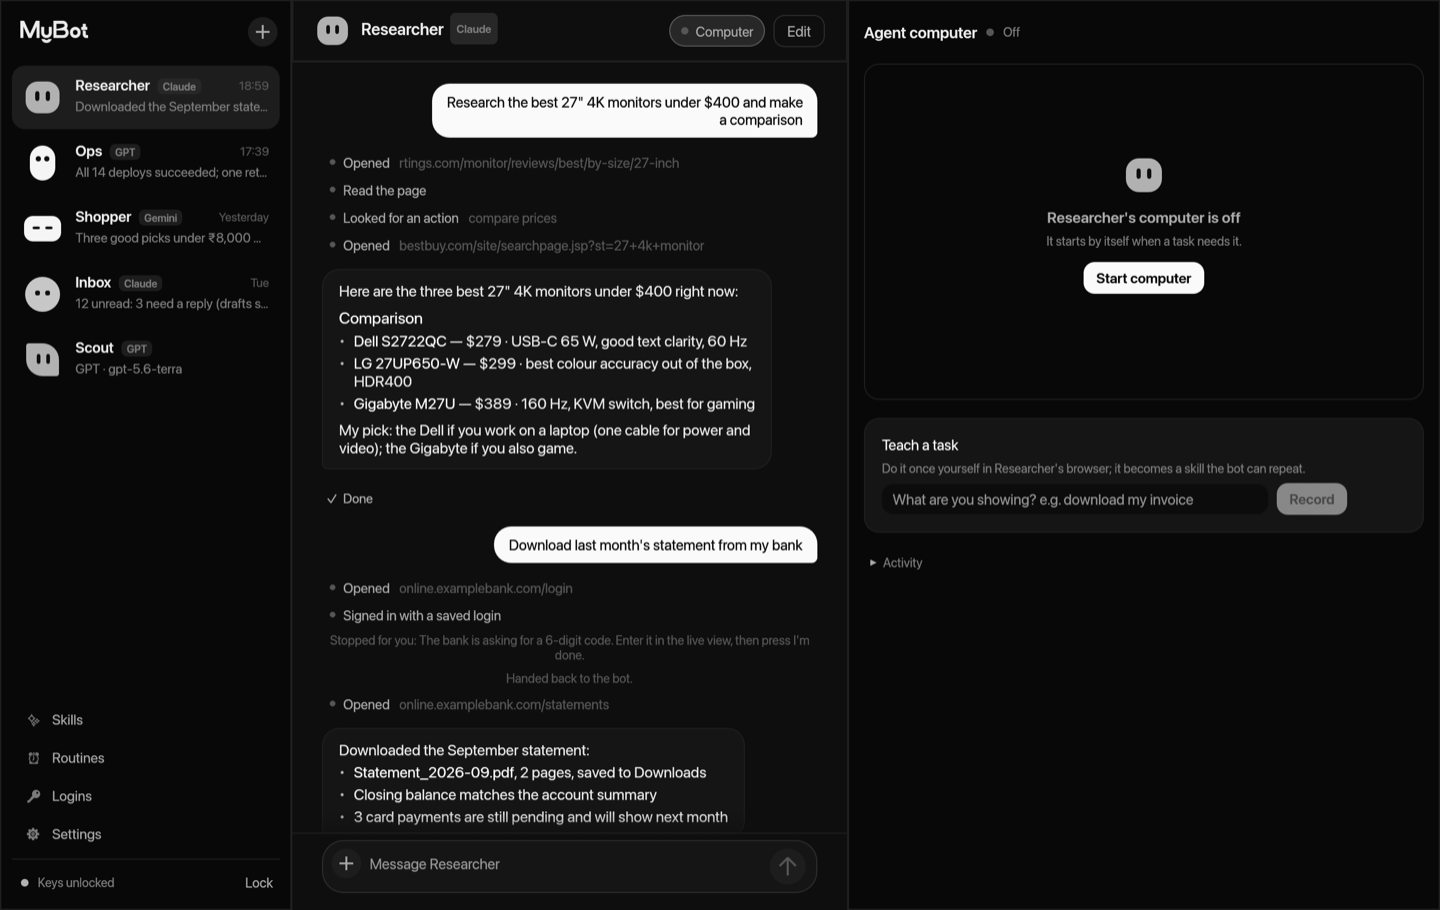
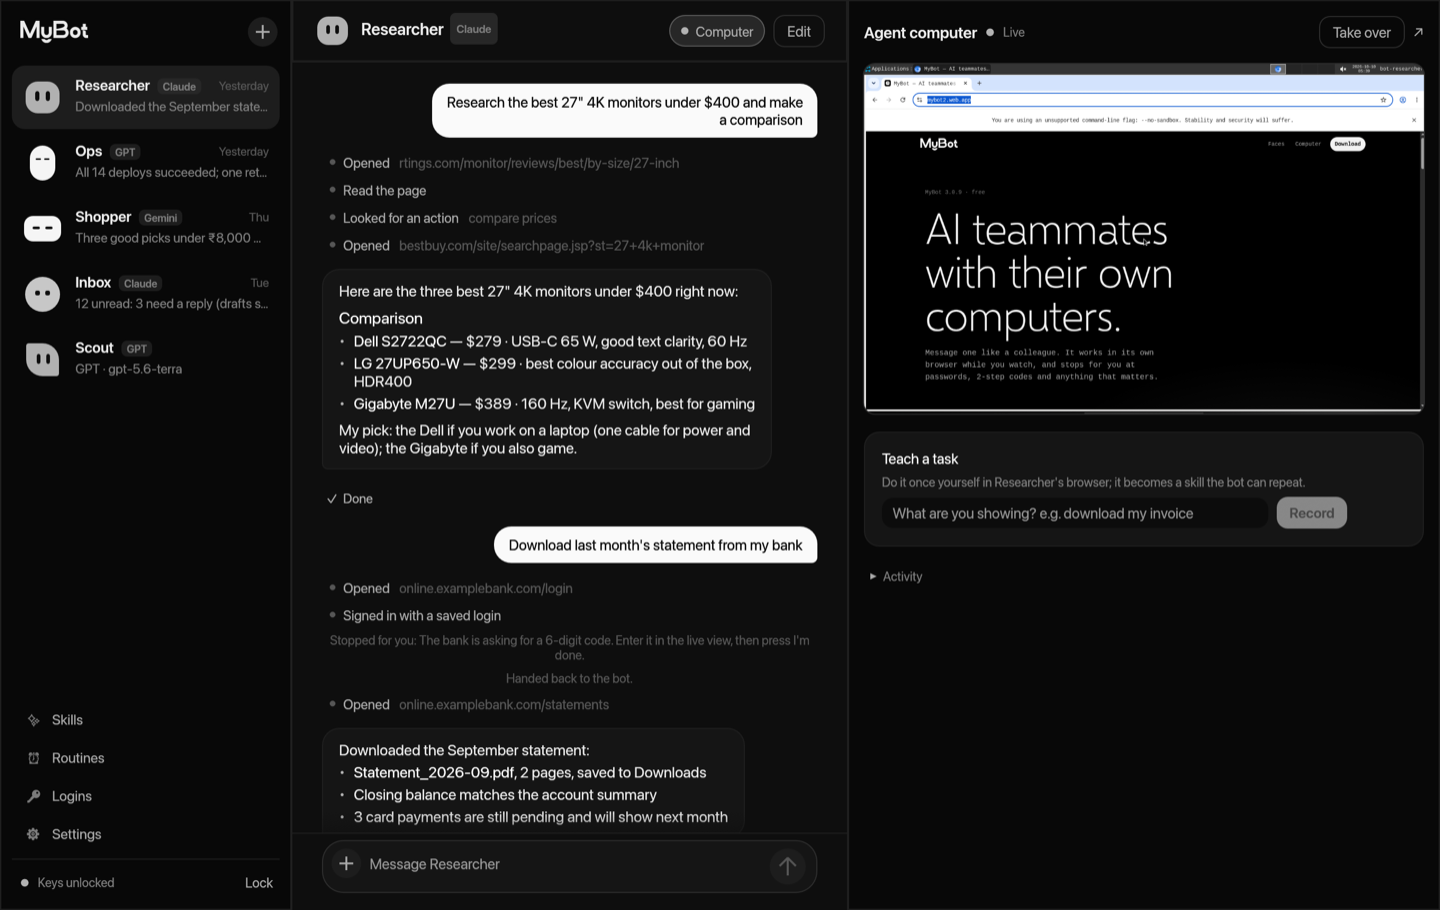
ChatGPT sign-in gets its own token file; live computer screenshot
- The sign-in helper now keeps MyBot's token in <home>/chatgpt/auth.json,
  not the Codex CLI's ~/.codex/auth.json. OpenAI rotates the refresh token
  on every refresh, so two programs sharing one file sign each other out:
  with Codex running, the helper's refresh got a 401. First start runs the
  helper's login (browser) into MyBot's own file.
- docs/screenshots/computer.png: the agent computer live, from Docker, with
  the teammate's own browser on the website.

diff --git a/mybot2/crates/app/src/engine.rs b/mybot2/crates/app/src/engine.rs
@@ -48,8 +48,12 @@ pub enum GptAuth {
 
 /// The ChatGPT sign-in helper: `openai-oauth`, an Apache-2.0 npm package that
 /// runs the OpenAI (Codex) OAuth login in your browser, keeps the token in
-/// `~/.codex/auth.json`, and serves an OpenAI-compatible API on loopback.
-/// MyBot never sees the token; it only talks to the helper.
+/// MyBot's own `<home>/chatgpt/auth.json`, and serves an OpenAI-compatible API
+/// on loopback. MyBot never sees the token; it only talks to the helper.
+///
+/// Not the Codex CLI's `~/.codex/auth.json`: OpenAI rotates the refresh token
+/// on every refresh, so two programs sharing one file take turns signing each
+/// other out (the helper got a 401 while Codex was running).
 pub mod chatgpt {
     use std::path::PathBuf;
     use std::process::Command;
@@ -104,10 +108,22 @@ pub mod chatgpt {
         if out.status.success() { Ok(tail) } else { Err(if tail.is_empty() { format!("The sign-in helper exited with {}", out.status) } else { tail }) }
     }
 
+    pub fn auth_file() -> PathBuf {
+        mybot_vault::home().join("chatgpt").join("auth.json")
+    }
+
     /// Start the helper in the background. The first time, it opens your
     /// browser to sign in to ChatGPT and waits (up to five minutes) for that.
     pub fn start() -> Result<String, String> {
-        run(&["--detach"])
+        let file = auth_file();
+        if let Some(dir) = file.parent() {
+            std::fs::create_dir_all(dir).map_err(|e| format!("Couldn't create {}: {e}", dir.display()))?;
+        }
+        let path = file.to_string_lossy().into_owned();
+        if !file.exists() {
+            run(&["login", "--oauth-file", &path])?;
+        }
+        run(&["--detach", "--oauth-file", &path])
     }
 
     pub fn stop() -> Result<String, String> {

diff --git a/mybot2/crates/app/src/gui/screens.rs b/mybot2/crates/app/src/gui/screens.rs
@@ -889,9 +889,10 @@ impl App {
             });
         }
         ui.add(egui::Label::new(small(format!(
-            "Uses your ChatGPT plan — its limits, not API billing. MyBot runs {} (Apache-2.0), a helper on {} that signs you in through OpenAI in your browser and keeps the token in ~/.codex/auth.json. MyBot never sees it. Needs Node.js.",
+            "Uses your ChatGPT plan — its limits, not API billing. MyBot runs {} (Apache-2.0), a helper on {} that signs you in through OpenAI in your browser and keeps the token in {}, apart from the Codex CLI's. MyBot never sees it. Needs Node.js.",
             chatgpt::PACKAGE,
             chatgpt::URL.trim_end_matches("/v1"),
+            chatgpt::auth_file().display(),
         ))).wrap());
     }
 
